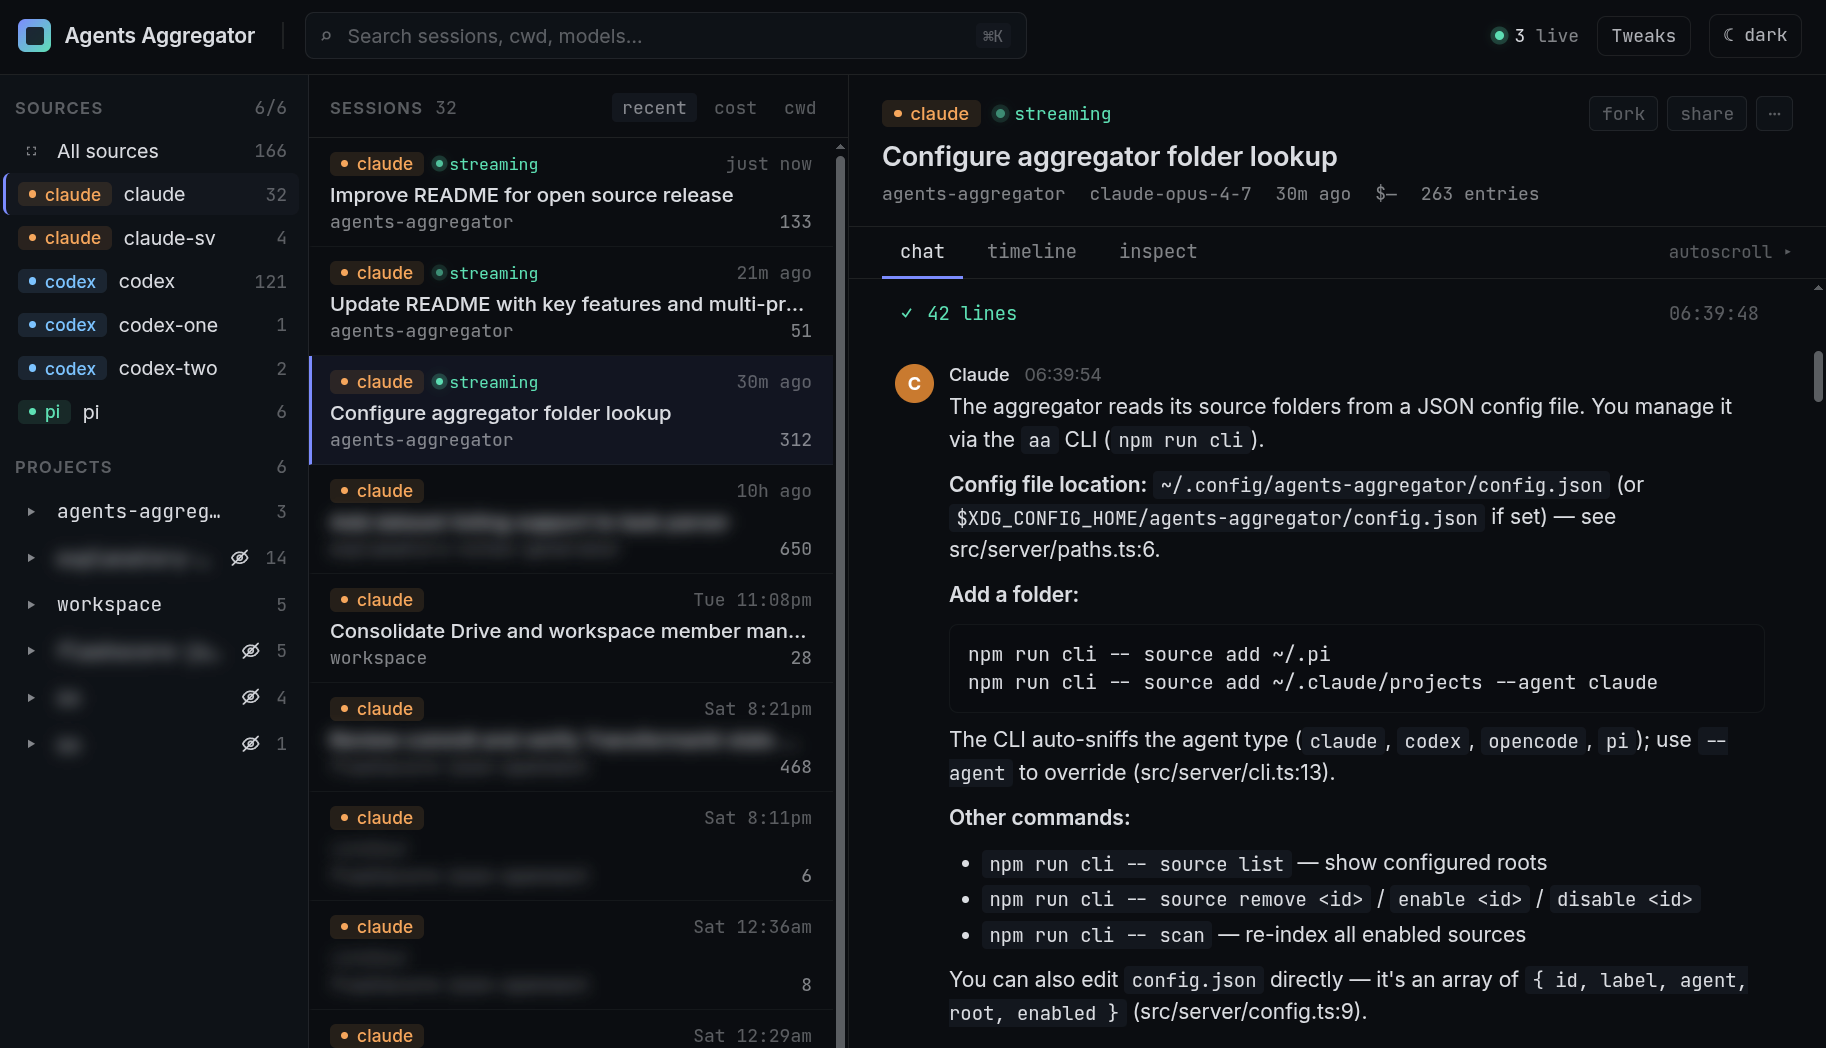
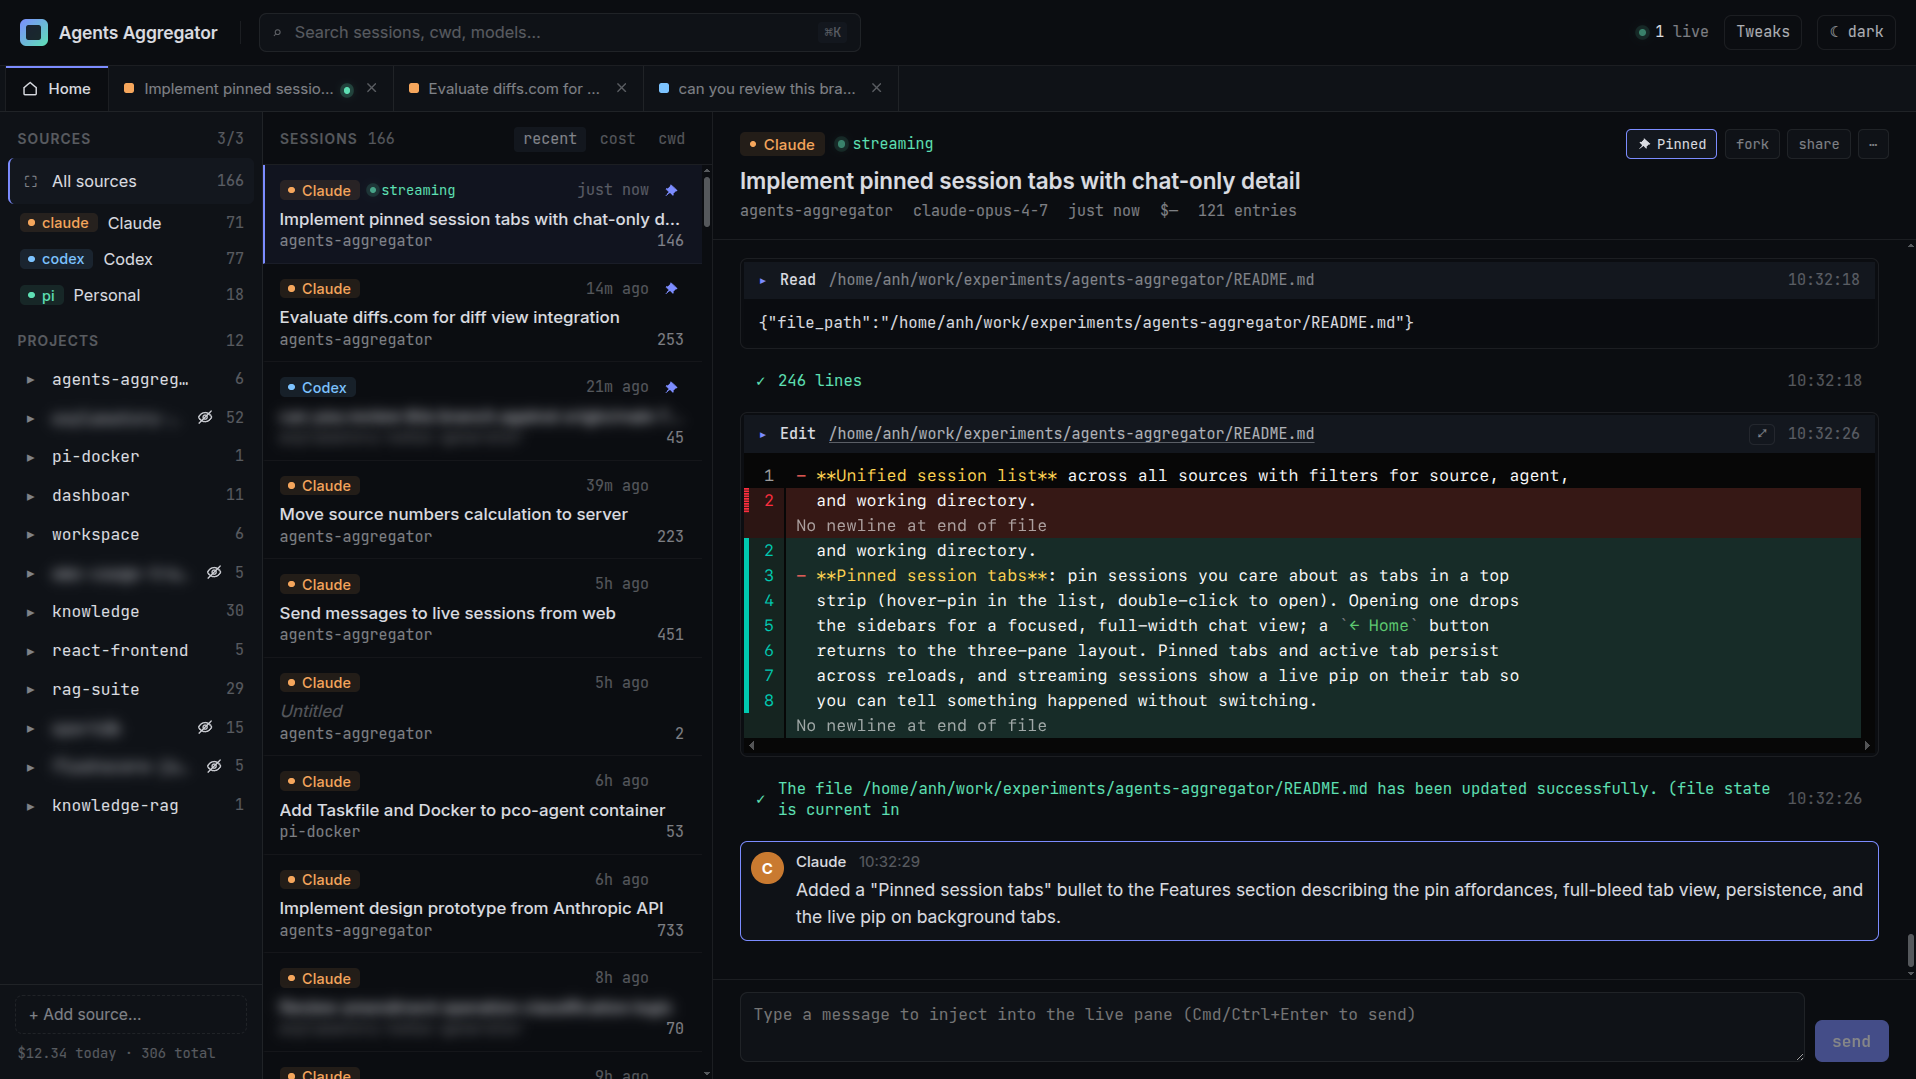
update README

diff --git a/README.md b/README.md
@@ -52,6 +52,12 @@ Or Watch me building it in realtime: https://www.youtube.com/watch?v=ACWjW-3LFS0
   highlighting instead of raw text.
 - **Unified session list** across all sources with filters for source, agent,
   and working directory.
+- **Pinned session tabs**: pin sessions you care about as tabs in a top
+  strip (hover-pin in the list, double-click to open). Opening one drops
+  the sidebars for a focused, full-width chat view; a `← Home` button
+  returns to the three-pane layout. Pinned tabs and active tab persist
+  across reloads, and streaming sessions show a live pip on their tab so
+  you can tell something happened without switching.
 - **Normalized rendering** of user / assistant / tool-call / tool-result /
   thinking / bash blocks regardless of which agent produced them.
 - **Per-file tailing** with debounced `fs.watch`, byte-offset tracking, and